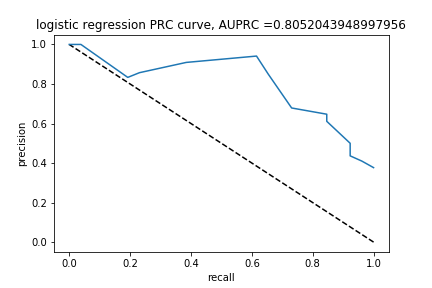
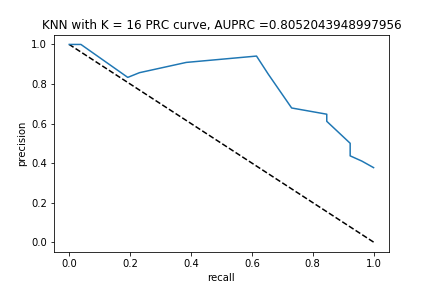
fix typo

Changed region(s): [[0.0602, 0.0625, 0.9329, 0.125]]

diff --git a/README.md b/README.md
@@ -40,7 +40,7 @@ plt.plot([1,0],[0,1],'k--')
 plt.plot(recall,precision, label='logistic')
 plt.xlabel('recall')
 plt.ylabel('precision')
-title_name = 'logistic regression PRC curve, AUPRC ='+str(auprc)
+title_name = 'KNN with K = 16 PRC curve, AUPRC ='+str(auprc)
 plt.title(title_name)
 plt.savefig('KNN with K = 16 PRC curve.png')
 plt.show()
